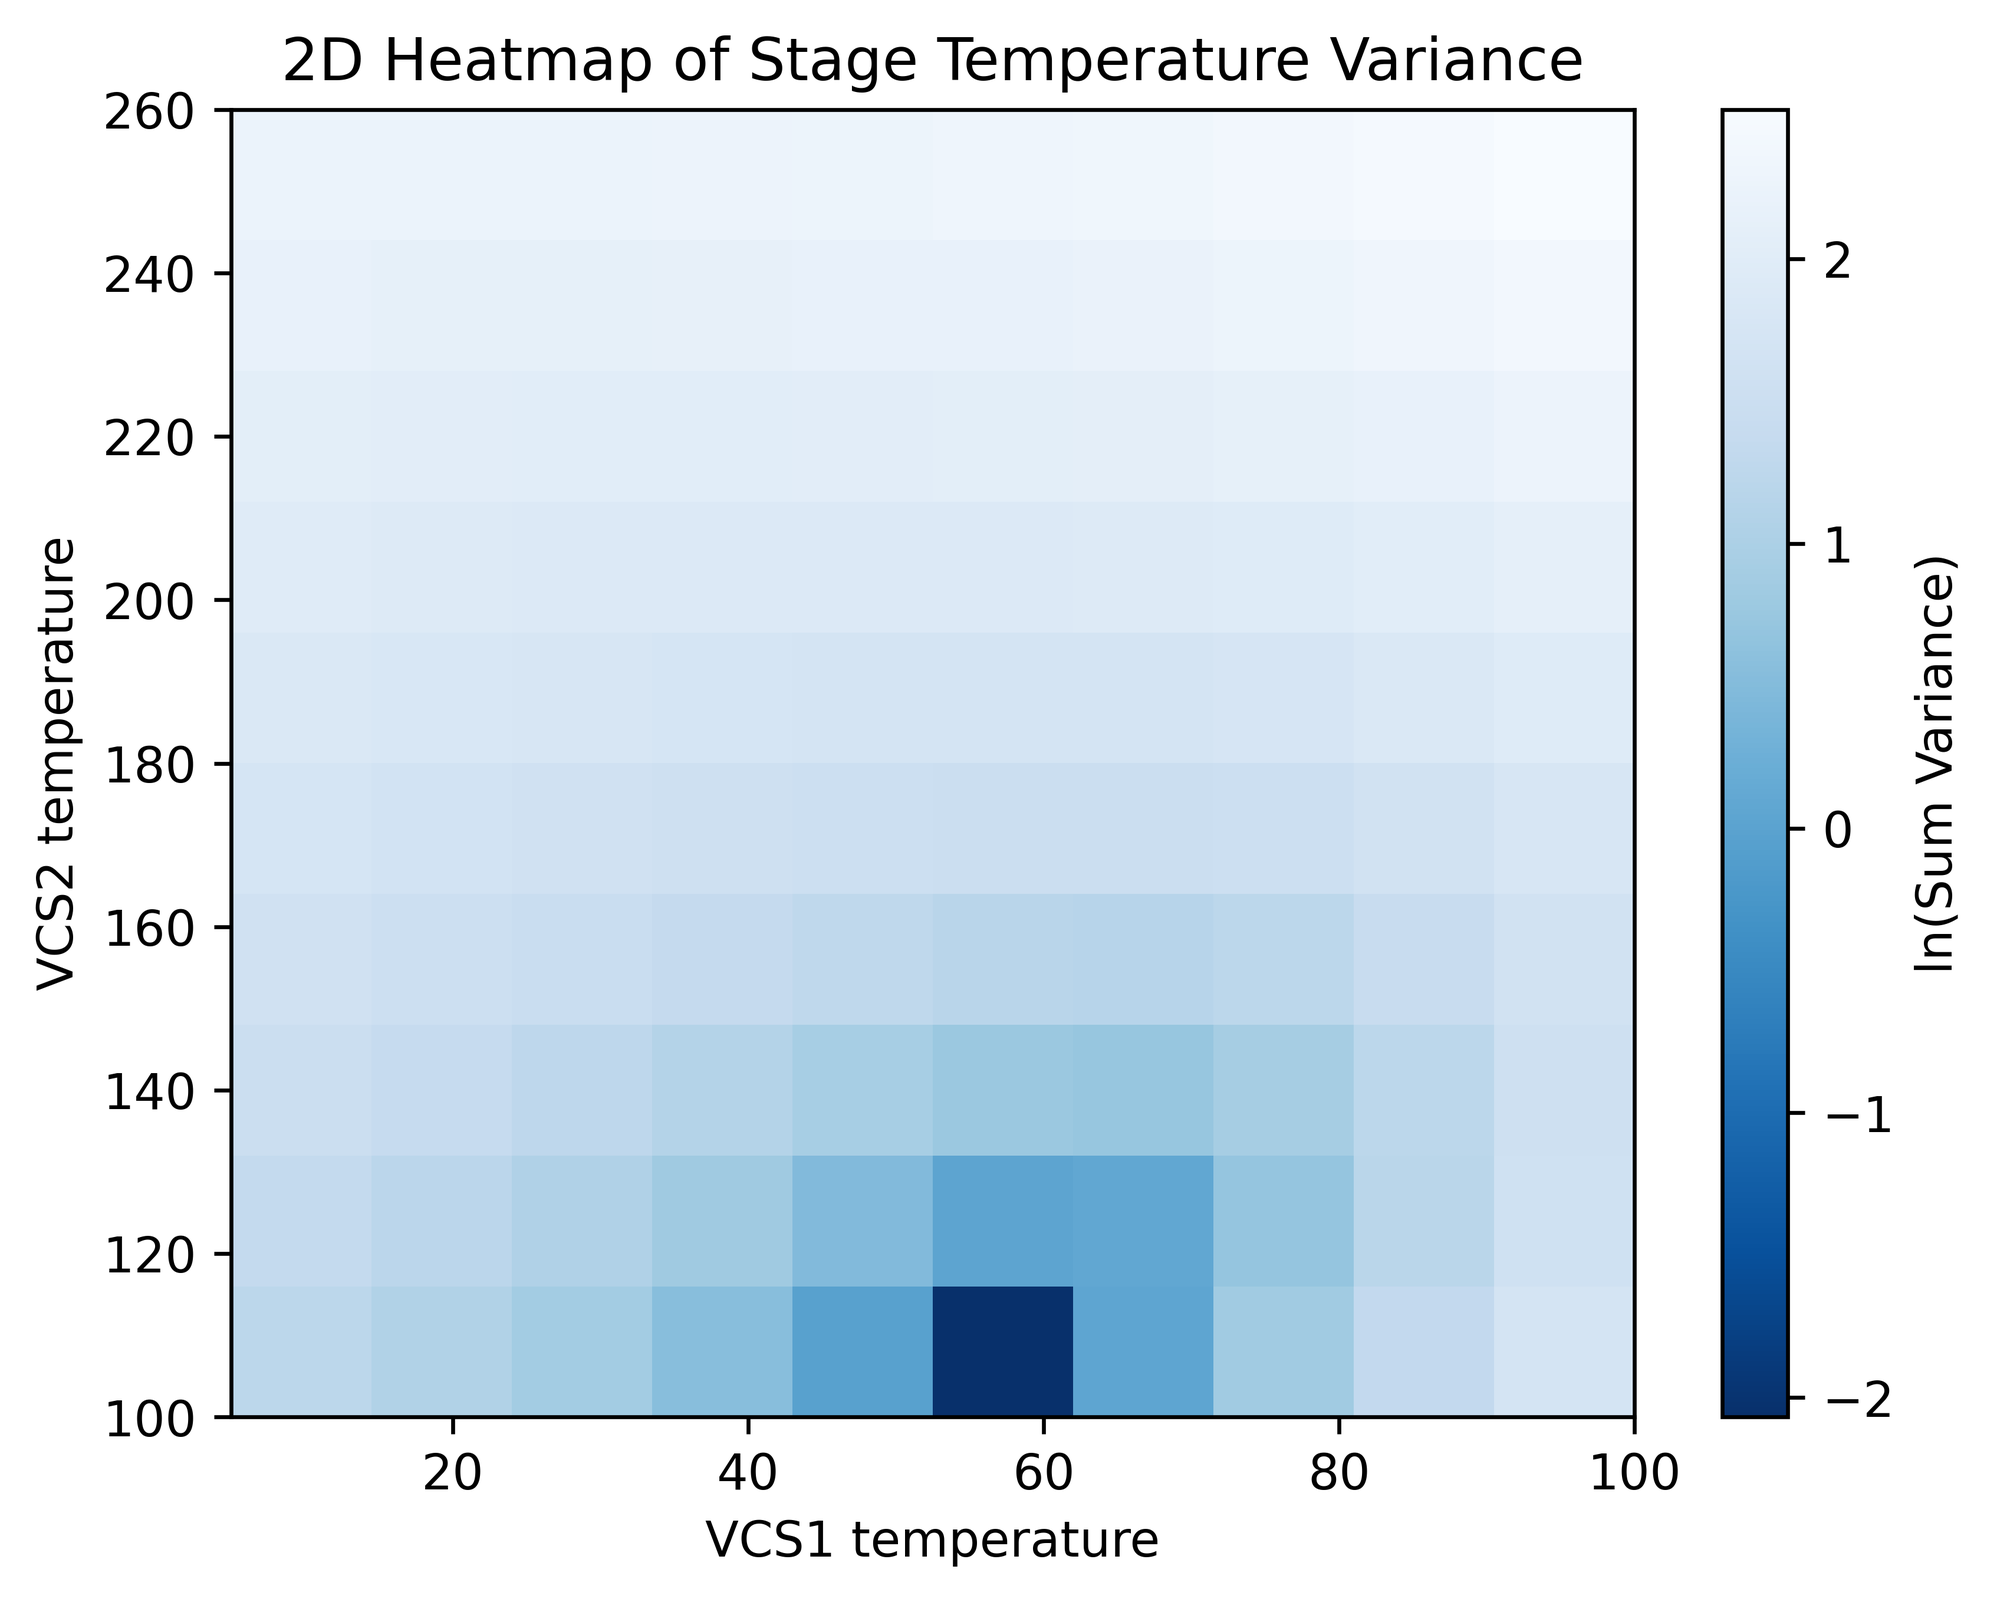
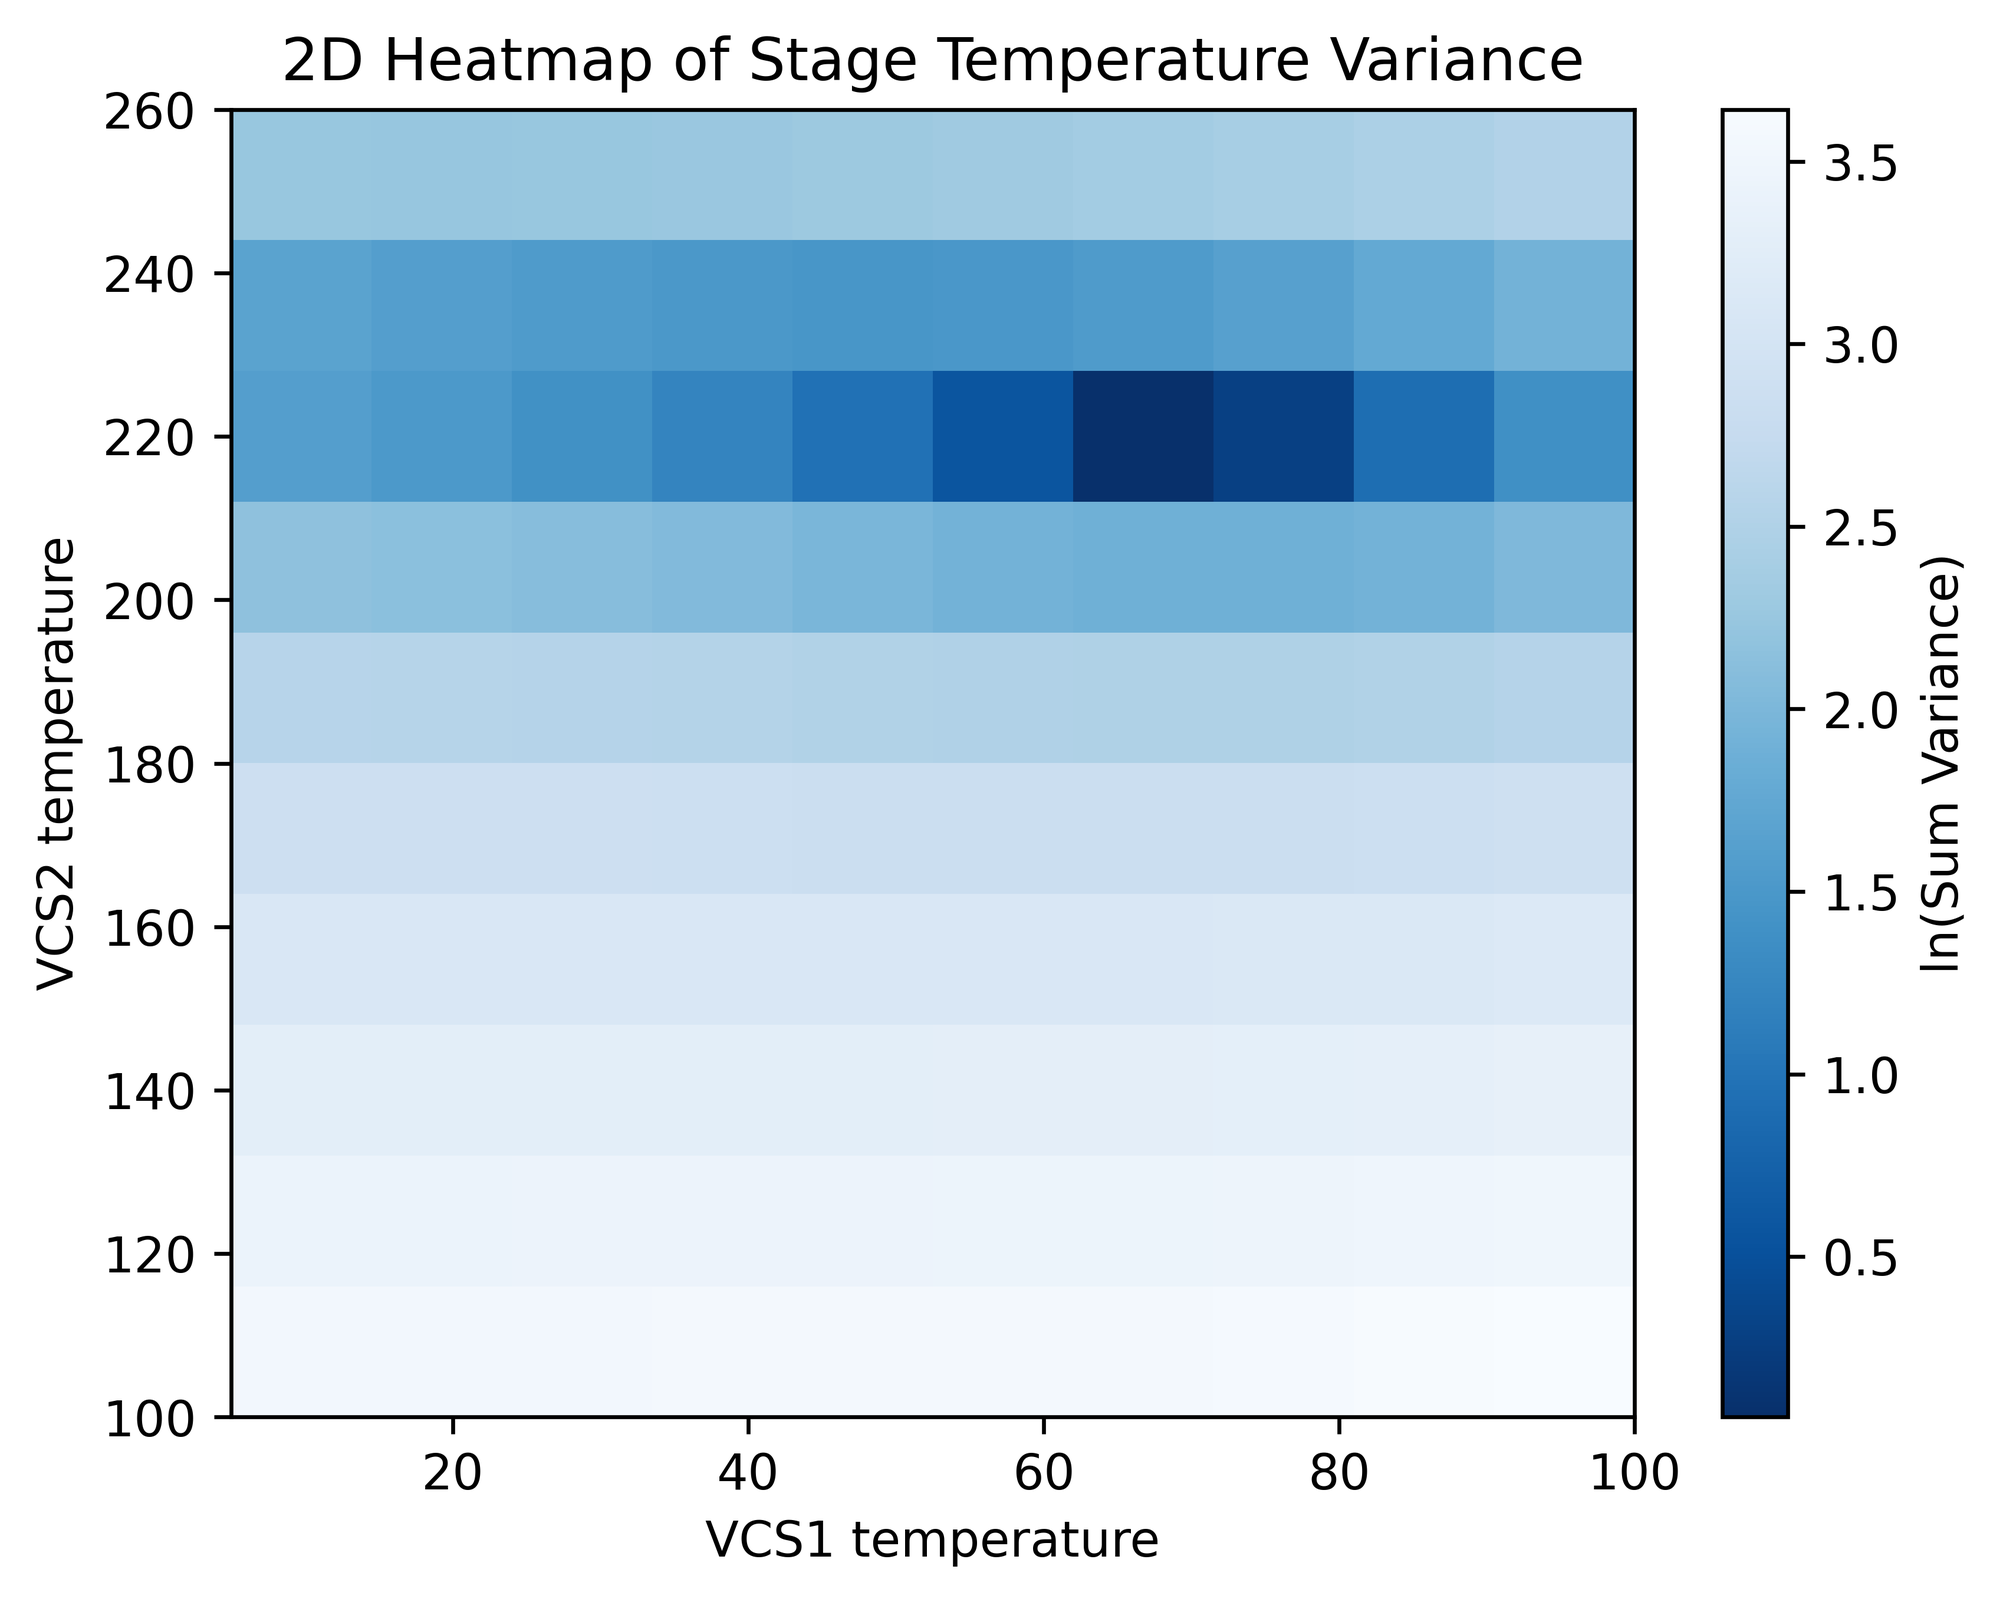
bug fixes and added providing vapor tag

diff --git a/thermal_model/thermal_model_gui.py b/thermal_model/thermal_model_gui.py
@@ -103,6 +103,17 @@ with tabs[0]:
         if st.session_state.main_stage == []:
             st.sidebar.warning("Please add a stage to begin")
             selected_comp_type = "Stage"
+                    # Input field for naming the component or stage
+            name = st.sidebar.text_input("Name")
+
+            ############################################################
+            ############################################################
+
+            # If adding a stage, add T2 temperature
+            if selected_comp_type == "Stage":
+                low_temp = st.sidebar.number_input("Low Temperature (°K)", key="LowTemp", value=25.0, format="%.1f")
+                high_temp = st.sidebar.number_input("High Temperature (°K)", key="HighTemp", value=270.0, format="%.1f")
+
         else:
             # Select a stage to add the component to
             selected_stage_name = st.sidebar.selectbox("Select Stage to Add Component",
@@ -110,6 +121,16 @@ with tabs[0]:
             component_type_list = ["Stage", "Standard", "A/L", "Coax", "Power per Part"]
             selected_comp_type = st.sidebar.selectbox("Select Component Type", component_type_list)
         
+            # Input field for naming the component or stage
+            name = st.sidebar.text_input("Name")
+
+            ############################################################
+            ############################################################
+
+            # If adding a stage, add T2 temperature
+            if selected_comp_type == "Stage":
+                low_temp = st.sidebar.number_input("Low Temperature (°K)", key="LowTemp", value=25.0, format="%.1f")
+                high_temp = st.sidebar.number_input("High Temperature (°K)", key="HighTemp", value=270.0, format="%.1f")
             
             # Dictionary to hold component properties
             component_properties = {}
@@ -181,6 +202,7 @@ with tabs[0]:
                 else:
                     component_properties["Core Fit Choice"] = None
 
+
                 component_properties["Case OD (m)"] = st.sidebar.number_input("Case OD (m)", value=0.0, format="%.3f")
                 component_properties["Insulator OD (m)"] = st.sidebar.number_input("Insulator OD (m)", value=0.0, format="%.3f")
                 component_properties["Core OD (m)"] = st.sidebar.number_input("Core OD (m)", value=0.0, format="%.3f")
@@ -197,18 +219,12 @@ with tabs[0]:
                 component_properties["Time On (h/d)"] = st.sidebar.number_input("Time On (h/d)", value=0.0, format="%.1f", max_value=24.0, step = 0.5)
                 component_properties["Time Off (h/d)"] = st.sidebar.number_input("Time Off (h/d)", value=0.0, format="%.1f", max_value=24.0, step = 0.5)
 
+            if "4K" in selected_stage_name:
+                component_properties["Providing Vapor"] = st.sidebar.checkbox("Providing Vapor", value=True)
+            else:
+                component_properties["Providing Vapor"] = st.sidebar.checkbox("Providing Vapor", value=False)
         ############################################################
         ############################################################
-        # Input field for naming the component or stage
-        name = st.sidebar.text_input("Name")
-
-        ############################################################
-        ############################################################
-
-        # If adding a stage, add T2 temperature
-        if selected_comp_type == "Stage":
-            low_temp = st.sidebar.number_input("Low Temperature (°K)", key="LowTemp", value=25.0, format="%.1f")
-            high_temp = st.sidebar.number_input("High Temperature (°K)", key="HighTemp", value=270.0, format="%.1f")
 
 
         # Button to add a new component or stage
@@ -318,15 +334,6 @@ with tabs[0]:
         st.session_state.main_stage.stages = loaded_stages[1:]
         st.sidebar.success("JSON loaded successfully!")
 
-    # Button to clear everything
-    # with stylable_container(
-    #     "green",
-    #     css_styles="""
-    #     sidebar.button {
-    #         background-color: #00FF00;
-    #         color: black;
-    #     }""",
-    # ):
     clear_button = st.sidebar.button("Clear All", type="primary")
     
     if clear_button:
@@ -345,42 +352,16 @@ with tabs[0]:
             css_styles="""
                 {
                     background-color: %s;
-                    border: 1px solid %s;
+                    border: 0px solid %s;
                     border-radius: 0.5rem;
-                    padding: calc(1em - 1px)
+                    padding: 1em 1em 2em 1em; /* Top, Right, Bottom, Left */
                 }
                 """ % (get_color(), get_dark_color()),
-        ):
-                
-            # st.write(st.session_state.editing_stage_properties)
+        ): 
             if stage.name not in st.session_state.editing_stage_properties:
                 st.session_state.editing_stage_properties[stage.name] = False
             with st.expander(f"{stage.name}", expanded=False):
                 # Display stage properties as editable fields
-                # ##############################################################################################
-                # EDIT FUNCTION THAT IS NOT CURRENTLY WORKING
-                # ##############################################################################################
-                # if st.button(f"Edit {stage.name}", key=f"edit_{stage.name}"):
-                #     st.session_state.editing_stage_properties[stage.name] = True
-                #     # st.experimental_rerun()  # Trigger re-render
-                # if st.session_state.get("editing_stage_properties")[stage.name]:
-                #     new_high_temp = st.number_input("High Temperature (°K)", value=float(stage.high_temp), format="%.1f", key=f"high_temp_{stage.name}")
-                #     new_low_temp = st.number_input("Low Temperature (°K)", value=float(stage.low_temp), format="%.1f", key=f"low_temp_{stage.name}")
-                #     # new_power = st.number_input("Power (W)", value=float(stage.power), format="%.1f", key=f"power_{stage.name}")
-                #     # st.write("PRE", stage.low_temp, stage.high_temp, stage.power)
-                #     if st.button("Save Changes", key=f"save_{stage.name}"):                  
-                #         stage.low_temp = new_low_temp
-                #         stage.high_temp = new_high_temp
-                #         # stage.power = new_power
-                        
-                #         # st.write("MID", stage.low_temp, stage.high_temp, stage.power)
-                #         st.success(f"Changes saved for {stage.name}!")
-                #         st.session_state.editing_stage_properties[stage.name] = False
-                #         # st.experimental_rerun()  # Trigger re-render
-                # ##############################################################################################
-                # EDIT FUNCTION THAT IS NOT CURRENTLY WORKING
-                # ##############################################################################################
-
                 stage_df = pd.DataFrame([
                                         ["High Temp", stage.high_temp],
                                         ["Low Temp", stage.low_temp], 
@@ -427,13 +408,20 @@ with tabs[0]:
                             if component.properties:
                                 df = pd.DataFrame(
                                     [
-                                        {"Property": key, "Value": f"{value:.3e}" if isinstance(value, (int, float)) else value}
+                                        {
+                                            "Property": key,
+                                            "Value": (
+                                                f"{value:.3e}" if isinstance(value, (int, float)) and not isinstance(value, bool)
+                                                else ("True" if value is True else "False") if isinstance(value, bool)
+                                                else value
+                                            )
+                                        }
                                         for key, value in component.properties.items()
                                     ]
                                 )
-                                # st.markdown(df.to_html(index=False), unsafe_allow_html=True)
                                 st.dataframe(df, use_container_width=True, hide_index=True)
                             st.markdown("</div>", unsafe_allow_html=True)
+
                         st.markdown("</div>", unsafe_allow_html=True)
                         j += 1
     # Define Stages
@@ -562,9 +550,19 @@ with tabs[2]:
             # Display selected component details
             if selected_component:
                 st.subheader(f"Details for {selected_component.name}")
+
                 component_df = pd.DataFrame(
-                    list(selected_component.properties.items()),
-                    columns=["Property", "Value"]
+                    [
+                        {
+                            "Property": key,
+                            "Value": (
+                                f"{value:.3e}" if isinstance(value, (int, float)) and not isinstance(value, bool)
+                                else ("True" if value is True else "False") if isinstance(value, bool)
+                                else value
+                            )
+                        }
+                        for key, value in selected_component.properties.items()
+                    ]
                 )
                 st.dataframe(component_df, use_container_width=True, hide_index=True)
 
@@ -574,7 +572,6 @@ with tabs[2]:
                     mid_col.pyplot(int_fig, use_container_width=True)
                 except:
                     st.warning("Integral plot not available for this component type.")
-
         # Sum Var plot
         left_col, mid_col, right_col = st.columns([0.2, 0.6, 0.2])
         try:
@@ -589,7 +586,6 @@ with tabs[2]:
             cmap = mpl.colors.LinearSegmentedColormap.from_list(
                 'Custom cmap', cmaplist, cmap.N)
 
-            
             # define the bins and normalize
             bounds = np.linspace(-10, 1, 20)
             norm = mpl.colors.BoundaryNorm(bounds, cmap.N)
@@ -597,11 +593,6 @@ with tabs[2]:
 
             [VCS2grid, VCS1grid, SumVarArr] = st.session_state.optimized
             hm = ax.imshow(np.log(SumVarArr), extent=(VCS1grid.min(), VCS1grid.max(), VCS2grid.min(), VCS2grid.max()), origin='lower', cmap="Blues_r", aspect='auto')
-
-
-
-
-
 
             fig.colorbar(hm, label='ln(Sum Variance)')#, cmap=cmap, norm=norm, spacing="proportional", ticks=bounds, boundaries=bounds)#, ticks=np.round(np.linspace(SumVarArr.min(), SumVarArr.max(), 5)), format='%.2f')
             ax.set_ylabel('VCS2 temperature')

diff --git a/thermal_model/stage_calc.py b/thermal_model/stage_calc.py
@@ -48,8 +48,7 @@ def calculate_power_function(details, stage_temps, A_L = False):
     if "Interpolate" in details and details["Interpolate"]:
         interp_exists, valid_range = find_interpolation(mat) # Check if interpolation file exists
         if lowT < valid_range[0] or highT > valid_range[1]:
-            print(f"ERROR: Interpolation range for {mat} is {valid_range}, but requested range is {lowT} to {highT}.")
-            print("Using default material fit instead.")
+            print(f"ERROR: Interpolation range for {mat} is {valid_range}, but requested range is {lowT} to {highT}. Using default material fit instead.")
             ConIntQuad = get_conductivity_integral(lowT, highT, mat, verbose=False)
         else:
             ConIntQuad = get_interpolation_integral(lowT, highT, mat)
@@ -172,10 +171,21 @@ def get_sum_variance(output_data):
     He3HoldTime = (FridgeCap/mk300Load)/3600
 
     total_average_load = He3Load + RecycleEnergy/(He3HoldTime*3600)
-    if "LNA" in output_data["components"]["4K - Transient"].keys() and "Motor Axles" in output_data["components"]["4K - Transient"].keys():
-        loadProvidingVapor = output_data["total_power"]["4K - LHe"] + output_data["components"]["4K - Transient"]["LNA"]["Power Total (W)"] + output_data["components"]["4K - Transient"]["Motor Axles"]["Power Total (W)"]
-    else:
-        loadProvidingVapor = output_data["total_power"]["4K - LHe"] + output_data["total_power"]["4K - Transient"]
+    # if "LNA" in output_data["components"]["4K - Transient"].keys() and "Motor Axles" in output_data["components"]["4K - Transient"].keys():
+    #     loadProvidingVapor = output_data["total_power"]["4K - LHe"] + output_data["components"]["4K - Transient"]["LNA"]["Power Total (W)"] + output_data["components"]["4K - Transient"]["Motor Axles"]["Power Total (W)"]
+    # else:
+    #     loadProvidingVapor = output_data["total_power"]["4K - LHe"] + output_data["total_power"]["4K - Transient"]
+
+    loadProvidingVapor = 0.0
+    for comp_name, comp_details in output_data["components"]["4K - LHe"].items():
+        if "Providing Vapor" in comp_details and comp_details["Providing Vapor"]:
+            if comp_details.get("Providing Vapor", False):
+                loadProvidingVapor += comp_details.get("Power Total (W)", 0.0)
+    for comp_name, comp_details in output_data["components"]["4K - Transient"].items():
+        if "Providing Vapor" in comp_details and comp_details["Providing Vapor"]:
+            if comp_details.get("Providing Vapor", False):
+                loadProvidingVapor += comp_details.get("Power Total (W)", 0.0)
+    print(f"Load Providing Vapor: {loadProvidingVapor} W")
         
     
     LitersPCycle = (total_average_load*He3HoldTime*3.6)/(HeRho*HeLH)

diff --git a/thermal_model/plotting.py b/thermal_model/plotting.py
@@ -41,12 +41,9 @@ def plot_integral(selected_component, stage):
         tc_file_date    = exist_files[0][-12:-4]
 
         material_of_interest = selected_component.properties["Material"]
-        print(material_of_interest)
         TCdata = np.loadtxt(os.path.join(cmr_path, "thermal_conductivity", "lib", material_of_interest, "all_fits.csv"), dtype=str, delimiter=',') # imports compilation file csv
-        print(TCdata)
         mat_parameters = get_parameters(TCdata, selected_component.properties["Fit Choice"])
         func_type = get_func_type(mat_parameters["fit_type"])
-        print(func_type)
         fit_range = mat_parameters["fit_range"]
 
         # Let's make our plotting range the listed fit range
@@ -59,9 +56,7 @@ def plot_integral(selected_component, stage):
                     hatch="////", alpha = 0.5, edgecolor = 'b', facecolor="w",
                     label="Integration Area")
     else:
-        print("PLOT Using interpolation for", selected_component.name)
         interp_func = get_interpolation(os.path.join(path_to_mat_lib, selected_component.properties["Material"]))
-        print(interp_func)
         T_range = np.linspace(interp_func.x[0], interp_func.x[-1], 1000)
         y_vals = interp_func(T_range)
 
